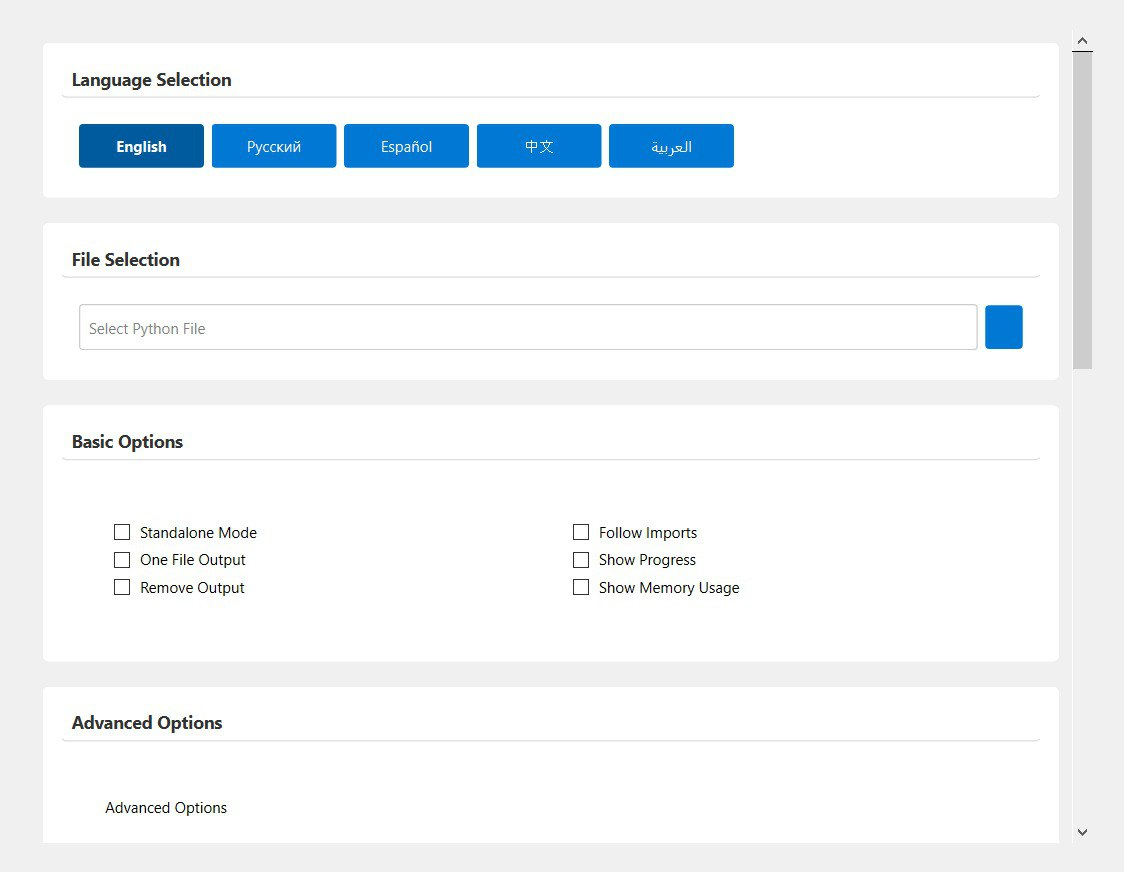
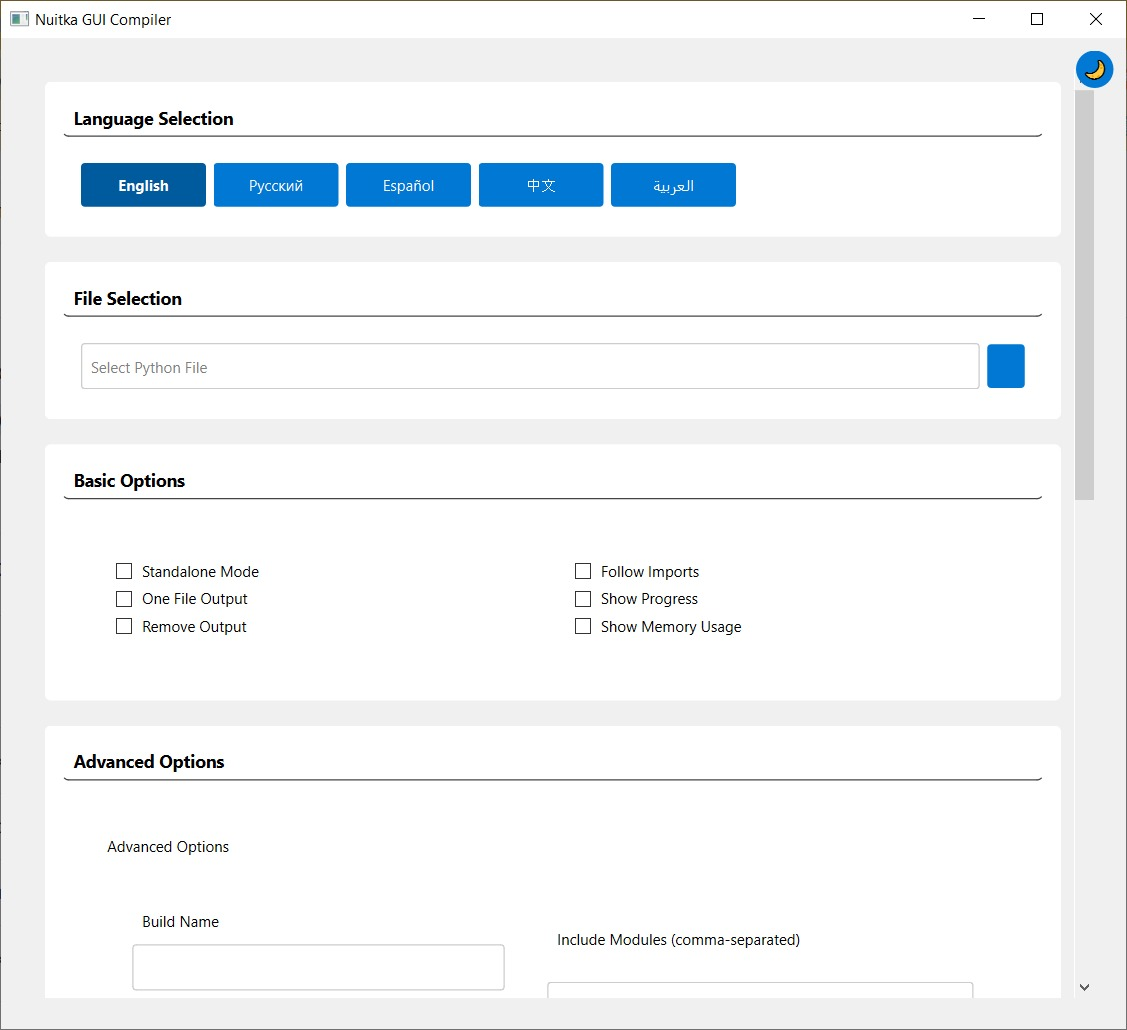
Adding UI (1/2)

diff --git a/src/nuitka_gui.py b/src/nuitka_gui.py
@@ -7,6 +7,7 @@ from src.config import (DEFAULT_WINDOW_SIZE, DEFAULT_LANGUAGE, SUPPORTED_LANGUAG
                        load_translations)
 from src.compiler import NuitkaCompiler
 from src.gui_components import AdvancedOptionsFrame
+from src.ui import create_theme_button, get_theme_styles
 
 class CompilerThread(QThread):
     output_signal = pyqtSignal(str)
@@ -33,63 +34,16 @@ class CompilerThread(QThread):
 class NuitkaGUI(QMainWindow):
     def __init__(self):
         super().__init__()
-        self.setup_window()
         self.widgets = {}
         self.options = {}
         self.translatable_widgets = {}
         self.is_compiling = False
+        self.is_dark_theme = False
         self.load_translations()
+        self.setup_window()
         self.create_widgets()
-        self.setStyleSheet("""
-            QMainWindow {
-                background-color: #f0f0f0;
-            }
-            QFrame {
-                background-color: white;
-                border-radius: 5px;
-                padding: 5px;
-            }
-            QPushButton {
-                background-color: #0078D4;
-                color: white;
-                border-radius: 3px;
-                padding: 5px 15px;
-                min-height: 25px;
-            }
-            QPushButton:hover {
-                background-color: #1084D9;
-            }
-            QPushButton:pressed {
-                background-color: #006CBD;
-            }
-            QLineEdit {
-                padding: 5px;
-                border: 1px solid #ccc;
-                border-radius: 3px;
-                min-height: 25px;
-            }
-            QCheckBox {
-                spacing: 8px;
-            }
-            QProgressBar {
-                border: 1px solid #ccc;
-                border-radius: 3px;
-                text-align: center;
-                min-height: 20px;
-            }
-            QProgressBar::chunk {
-                background-color: #0078D4;
-            }
-            QTextEdit {
-                border: 1px solid #ccc;
-                border-radius: 3px;
-            }
-            QScrollArea {
-                border: none;
-                background-color: transparent;
-            }
-        """)
-        
+        self.apply_theme()
+
     def setup_window(self):
         self.setWindowTitle("Nuitka GUI Compiler")
         width, height = map(int, DEFAULT_WINDOW_SIZE.split('x'))
@@ -102,6 +56,27 @@ class NuitkaGUI(QMainWindow):
         self.main_layout = QVBoxLayout(self.central_widget)
         self.main_layout.setContentsMargins(20, 20, 20, 20)
         self.main_layout.setSpacing(15)
+
+        # Add theme toggle button in top-right corner
+        self.theme_btn = create_theme_button(self, self.translate)
+        self.theme_btn.clicked.connect(self.toggle_theme)
+        self.theme_btn.move(self.width() - 40, 10)
+
+    def apply_theme(self):
+        self.setStyleSheet(get_theme_styles(self.is_dark_theme))
+        icon = "☀" if self.is_dark_theme else "🌙"
+        text = self.translate("light_mode") if self.is_dark_theme else self.translate("dark_mode")
+        self.theme_btn.setText(icon)
+        self.theme_btn.setToolTip(text)
+
+    def toggle_theme(self):
+        self.is_dark_theme = not self.is_dark_theme
+        self.apply_theme()
+
+    def resizeEvent(self, event):
+        super().resizeEvent(event)
+        if hasattr(self, 'theme_btn'):
+            self.theme_btn.move(self.width() - 40, 10)
 
     def load_translations(self):
         try:
@@ -141,9 +116,8 @@ class NuitkaGUI(QMainWindow):
                 QLabel#section-title {
                     font-size: 14px;
                     font-weight: bold;
-                    color: #333;
                     padding: 5px;
-                    border-bottom: 1px solid #ddd;
+                    border-bottom: 1px solid #444;
                     margin-bottom: 5px;
                 }
             """)
@@ -338,11 +312,12 @@ class NuitkaGUI(QMainWindow):
         if self.is_compiling:
             return
             
-        if not self.file_path.text():
-            QMessageBox.critical(
+        if not self.file_path.text().strip():
+            QMessageBox.warning(
                 self,
                 self.translate("error"),
-                self.translate("no_file_selected")
+                self.translate("no_file_selected"),
+                QMessageBox.StandardButton.Ok
             )
             return
             
@@ -394,7 +369,11 @@ class NuitkaGUI(QMainWindow):
             )
 
     def translate(self, key):
-        return self.translations[self.current_language].get(key, key)
+        """Safely translate a key, returning the key itself if translation fails"""
+        try:
+            return self.translations[self.current_language].get(key, key)
+        except (AttributeError, KeyError):
+            return key
         
     def change_language(self, lang):
         old_lang = self.current_language

diff --git a/src/ui.py b/src/ui.py
@@ -1,0 +1,62 @@
+from PyQt6.QtWidgets import QPushButton
+
+def create_theme_button(parent, translator=None):
+    """Create and configure the theme toggle button"""
+    theme_btn = QPushButton("🌙", parent)
+    theme_btn.setFixedSize(30, 30)
+    theme_btn.setStyleSheet("""
+        QPushButton { 
+            border-radius: 15px;
+            font-size: 14px;
+            padding: 0px;
+        }
+        QPushButton:hover {
+            background-color: rgba(0, 120, 212, 0.1);
+        }
+    """)
+    
+    # Set tooltip based on language if translator is provided
+    if translator:
+        theme_btn.setToolTip(translator("switch_theme"))
+    else:
+        theme_btn.setToolTip("Switch Theme (Light/Dark)")
+        
+    return theme_btn
+
+def get_theme_styles(is_dark: bool) -> str:
+    """Get the stylesheet for the current theme"""
+    if is_dark:
+        return """
+            QMainWindow { background-color: #1e1e1e; }
+            QFrame { background-color: #2d2d2d; border-radius: 5px; padding: 5px; }
+            QPushButton { background-color: #0078D4; color: white; border-radius: 3px; padding: 5px 15px; min-height: 25px; }
+            QPushButton:hover { background-color: #1084D9; }
+            QPushButton:pressed { background-color: #006CBD; }
+            QLineEdit { padding: 5px; border: 1px solid #444; border-radius: 3px; min-height: 25px; background: #383838; color: #fff; }
+            QCheckBox { spacing: 8px; color: #fff; }
+            QProgressBar { border: 1px solid #444; border-radius: 3px; text-align: center; min-height: 20px; }
+            QProgressBar::chunk { background-color: #0078D4; }
+            QTextEdit { border: 1px solid #444; border-radius: 3px; background: #383838; color: #fff; }
+            QScrollArea { border: none; background-color: transparent; }
+            QLabel { color: #fff; }
+            QComboBox { background: #383838; color: #fff; border: 1px solid #444; border-radius: 3px; padding: 5px; }
+            QMessageBox { background-color: #2d2d2d; color: #fff; }
+            QMessageBox QLabel { color: #fff; }
+            QMessageBox QPushButton { min-width: 80px; }
+        """
+    else:
+        return """
+            QMainWindow { background-color: #f0f0f0; }
+            QFrame { background-color: white; border-radius: 5px; padding: 5px; }
+            QPushButton { background-color: #0078D4; color: white; border-radius: 3px; padding: 5px 15px; min-height: 25px; }
+            QPushButton:hover { background-color: #1084D9; }
+            QPushButton:pressed { background-color: #006CBD; }
+            QLineEdit { padding: 5px; border: 1px solid #ccc; border-radius: 3px; min-height: 25px; }
+            QCheckBox { spacing: 8px; }
+            QProgressBar { border: 1px solid #ccc; border-radius: 3px; text-align: center; min-height: 20px; }
+            QProgressBar::chunk { background-color: #0078D4; }
+            QTextEdit { border: 1px solid #ccc; border-radius: 3px; }
+            QScrollArea { border: none; background-color: transparent; }
+            QMessageBox { background-color: #fff; }
+            QMessageBox QPushButton { min-width: 80px; }
+        """
